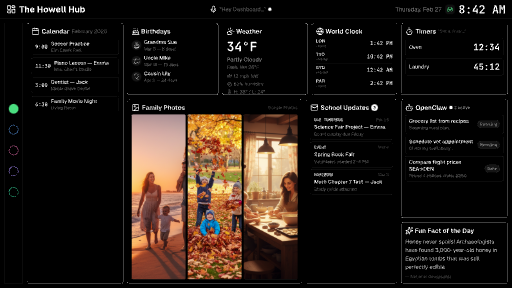
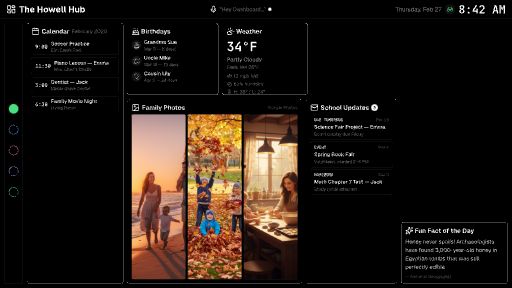
Remove World Clock, Timers, and OpenClaw Tasks panels from TV dashboard (#15)
Drops three cards from mobile + desktop layouts for a cleaner family-TV UI.
`useTimers` stays wired so voice-set timers still fire via AlarmOverlay;
only the pending-timer queue card is removed. Pencil design updated to
match (nodes Sog3C, WvqUf, oeqaR deleted from frame 8pkH2).

diff --git a/src/App.jsx b/src/App.jsx
@@ -13,18 +13,14 @@ import { useHandController } from "./hooks/useHandController";
 import { useLLMQuery } from "./hooks/useLLMQuery";
 import { useWakeWordDebug } from "./hooks/useWakeWordDebug";
 import { useWakeRecord } from "./hooks/useWakeRecord";
-import { useAgentTasks } from "./hooks/useAgentTasks";
 import { Header } from "./components/Header";
 import { CalendarPanel } from "./components/CalendarPanel";
 import { WeatherPanel } from "./components/WeatherPanel";
 import { PhotoPanel } from "./components/PhotoPanel";
 import { FactPanel } from "./components/FactPanel";
-import { AgentTasksPanel } from "./components/AgentTasksPanel";
 import { EventsPanel } from "./components/EventsPanel";
 import { BirthdaysPanel } from "./components/BirthdaysPanel";
-import { TimersPanel } from "./components/TimersPanel";
 import { AlarmOverlay } from "./components/AlarmOverlay";
-import { WorldClockPanel } from "./components/WorldClockPanel";
 import { FullCalendarPage } from "./components/FullCalendarPage";
 import { FullWeatherPage } from "./components/FullWeatherPage";
 import { FullPhotosPage } from "./components/FullPhotosPage";
@@ -73,7 +69,6 @@ export default function App() {
   const llm = useLLMQuery(settings.worker);
   const wakeDebug = useWakeWordDebug(settings.worker);
   const wakeRecord = useWakeRecord();
-  const agentTasks = useAgentTasks(settings.worker);
 
   // Derived-state layer (see docs/home_center_state_model.md)
   const takeout = useTakeout(settings.worker);
@@ -252,11 +247,8 @@ export default function App() {
             <div style={{ height: 220 }}>
               <PhotoPanel photos={photos.photos} photosLoading={photos.loading} photosError={photos.error} />
             </div>
-            <WorldClockPanel />
             <BirthdaysPanel birthdays={bdays.birthdays} loading={bdays.loading} error={bdays.error} derived={derived} />
             <EventsPanel derived={derived} />
-            <AgentTasksPanel tasks={agentTasks.tasks} />
-            <TimersPanel timers={timers} dismissTimer={dismissTimer} />
             <ModelHealthPanel onExpand={() => goTo("model-health")} workerSettings={settings.worker} />
             <FactPanel />
           </div>
@@ -278,13 +270,8 @@ export default function App() {
                     <div style={{ width: 340, flexShrink: 0, minHeight: 0 }}>
                       <BirthdaysPanel birthdays={bdays.birthdays} loading={bdays.loading} error={bdays.error} selected={hc.selectedPanelId === "birthdays"} derived={derived} />
                     </div>
-                    <div style={{ flex: 1, display: "flex", gap: 16, minHeight: 0 }}>
-                      <div style={{ flex: 1, minHeight: 0 }}>
-                        <WeatherPanel weatherData={weather.data} loading={weather.loading} error={weather.error} selected={hc.selectedPanelId === "weather"} />
-                      </div>
-                      <div style={{ flex: 1, minHeight: 0 }}>
-                        <WorldClockPanel selected={hc.selectedPanelId === "worldclock"} />
-                      </div>
+                    <div style={{ flex: 1, minHeight: 0 }}>
+                      <WeatherPanel weatherData={weather.data} loading={weather.loading} error={weather.error} selected={hc.selectedPanelId === "weather"} />
                     </div>
                   </div>
                   <div style={{ display: "flex", gap: 16, flex: 1, minHeight: 0 }}>
@@ -309,14 +296,8 @@ export default function App() {
                   </div>
                 </div>
 
-                {/* Right column */}
+                {/* Right column — Claw Suggestions (replaces Fun Fact when suggestions exist) */}
                 <div style={{ width: 400, flexShrink: 0, display: "flex", flexDirection: "column", gap: 16, minHeight: 0 }}>
-                  <div style={{ height: 270, flexShrink: 0 }}>
-                    <TimersPanel timers={timers} dismissTimer={dismissTimer} selected={hc.selectedPanelId === "timers"} />
-                  </div>
-                  <div style={{ flex: 1, minHeight: 0 }}>
-                    <AgentTasksPanel selected={hc.selectedPanelId === "agenttasks"} tasks={agentTasks.tasks} />
-                  </div>
                   <RightColumnCards
                     derived={derived}
                     raw={rawState}

diff --git a/docs/home_center_decisions_log.md b/docs/home_center_decisions_log.md
@@ -5,6 +5,36 @@ Newest at top.
 
 ---
 
+## 2026-04-17 — Remove World Clock, Timers, and OpenClaw Tasks from TV dashboard
+
+**Context**
+The TV dashboard was visually busy: five top-row cards (Calendar, Birthdays,
+Weather, World Clock, Fun Fact) and a right column stacked with Timers,
+OpenClaw Tasks, and Fun Fact. World Clock was cosmetic, Timers duplicated
+information already surfaced by `AlarmOverlay` (which is how voice-set timers
+actually fire), and the "OpenClaw Tasks" panel (`AgentTasksPanel`) was a
+dev-oriented queue view — not useful on a family TV.
+
+**Decision**
+Removed three cards from `src/App.jsx` (mobile + desktop layouts):
+`WorldClockPanel`, `TimersPanel`, `AgentTasksPanel`. `useTimers` stays —
+voice-set timers still fire via `AlarmOverlay` on expiry; we just don't
+show the pending queue as a card. Pencil design (`home-center.pen`, frame
+`8pkH2`) updated to match: nodes `oeqaR` (World Clock), `Sog3C` (Timers),
+and `WvqUf` (OpenClaw Tasks) deleted.
+
+**Consequence**
+- Top row is now 3 cards (Calendar | Birthdays | Weather); right column
+  shows Claw Suggestions / Fun Fact via the existing registry slot.
+- Spatial gesture nav map shrinks — WorldClock/Timers/AgentTasks targets
+  removed from the grid.
+- Voice timer UX unchanged — `AlarmOverlay` still covers create + dismiss.
+- `src/components/AgentTasksPanel.jsx` and `src/hooks/useAgentTasks.js`
+  remain in-repo but unreferenced; future cleanup can delete them outright
+  if nothing else imports them.
+
+---
+
 ## 2026-04-20 — School updates go through OpenClaw, not direct SDK calls
 
 **Context**
